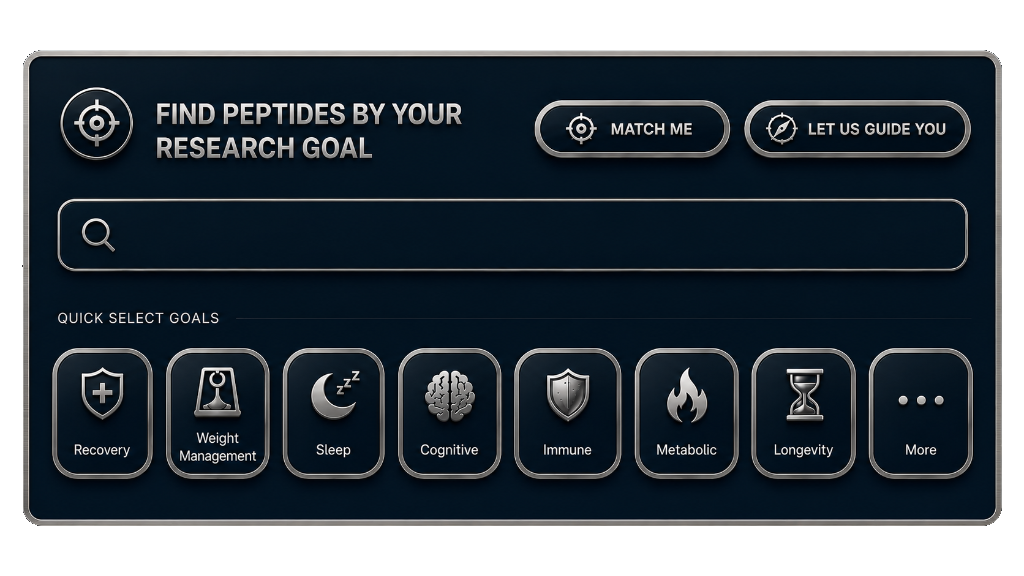
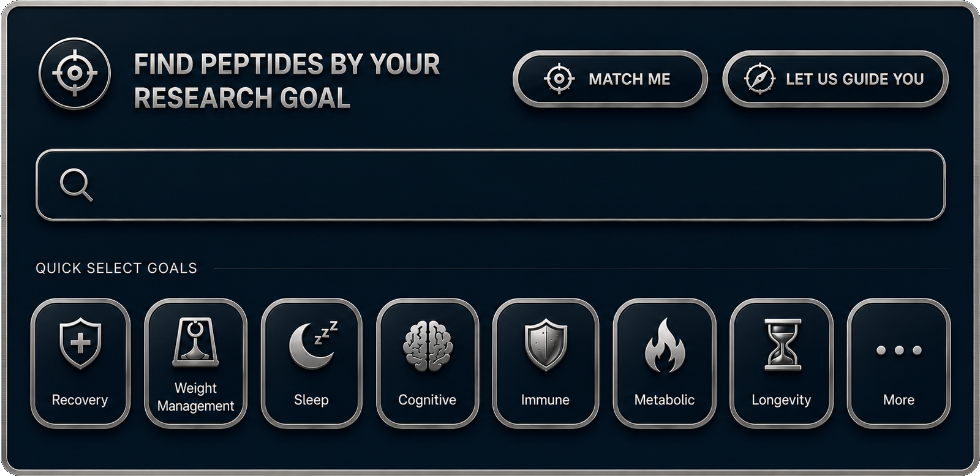
feat(research): swap basic calculator header with interactive dynamic hero layout

diff --git a/app/research/calculators/page.tsx b/app/research/calculators/page.tsx
@@ -5,77 +5,21 @@
  */
 
 import type { Metadata } from 'next';
-import Link from 'next/link';
-import GlobalSearchBar from '@/components/research/GlobalSearchBar';
 import BrowseSurfaceNav from '@/components/research/BrowseSurfaceNav';
 import CalculatorSuite from '@/components/research/CalculatorSuite';
+import DynamicCalculatorHero from '@/components/research/DynamicCalculatorHero';
 
 export const metadata: Metadata = {
   title: 'Researcher Calculators | Research Library | Pep Nation Lab',
   robots: { index: false, follow: false },
 };
 
-const ANCHORS: Array<{ href: string; label: string }> = [
-  { href: '#reconstitution', label: 'Reconstitution' },
-  { href: '#dilution', label: 'Serial Dilution' },
-  { href: '#concentration', label: 'Concentration Converter' },
-  { href: '#stability', label: 'Arrhenius Stability' },
-  { href: '#cost', label: 'Cost Per Dose' },
-  { href: '#pooling', label: 'Vial Pooling' },
-  { href: '#hplc-rt', label: 'HPLC RT Predictor' },
-  { href: '#mass-spec', label: 'Mass Spec m/z' },
-  { href: '#spps-cost', label: 'Fmoc-SPPS Cost' },
-  { href: '#solubility', label: 'Solubility Predictor' },
-  { href: '#vial-quantity', label: 'Vial Quantity Power' },
-];
+
 
 export default function CalculatorsPage() {
   return (
     <div style={{ maxWidth: 1080, margin: '0 auto', padding: '32px 16px 64px' }}>
-      <nav style={{ marginBottom: 16 }}>
-        <Link href="/research" style={{ color: '#00C4BC', fontSize: 13, textDecoration: 'none' }}>
-          Back To Research Library
-        </Link>
-      </nav>
-
-      <header style={{ marginBottom: 24 }}>
-        <h1 style={{ fontSize: 32, fontWeight: 900, color: '#FFFFFF', margin: 0 }}>
-          Researcher Calculators
-        </h1>
-        <p style={{ color: '#A8B4C0', fontSize: 16, marginTop: 8, maxWidth: 700, lineHeight: 1.6 }}>
-          Pure Lab-Prep Math, Built For The Bench. Eleven Calculators: Reconstitution, Serial Dilution,
-          Concentration Conversion, Arrhenius Stability, Cost Per Dose, Vial Pooling, HPLC Retention
-          Time, Mass Spec m/z, Fmoc-SPPS Cost, Solubility Prediction, And Vial Quantity Planning.
-          Research Use Only.
-        </p>
-      </header>
-
-      <div style={{ marginBottom: 20 }}>
-        <GlobalSearchBar compact />
-      </div>
-
-      <nav aria-label="Jump To Calculator" style={{ display: 'flex', flexWrap: 'wrap', gap: 8, marginBottom: 28 }}>
-        {ANCHORS.map((a) => (
-          <a
-            key={a.href}
-            href={a.href}
-            style={{
-              display: 'inline-flex',
-              alignItems: 'center',
-              fontSize: 12,
-              fontWeight: 700,
-              color: '#00C4BC',
-              border: '1px solid rgba(0,196,188,0.4)',
-              background: 'rgba(0,196,188,0.08)',
-              padding: '5px 12px',
-              borderRadius: 999,
-              textDecoration: 'none',
-            }}
-          >
-            {a.label}
-          </a>
-        ))}
-      </nav>
+      <DynamicCalculatorHero />
 
       <CalculatorSuite />
 

diff --git a/components/research/DynamicCalculatorHero.tsx b/components/research/DynamicCalculatorHero.tsx
@@ -1,0 +1,87 @@
+'use client';
+
+import Image from 'next/image';
+import Link from 'next/link';
+import { useState } from 'react';
+import { useRouter } from 'next/navigation';
+
+export default function DynamicCalculatorHero() {
+  const router = useRouter();
+  const [query, setQuery] = useState('');
+
+  return (
+    <div style={{ position: 'relative', width: '100%', maxWidth: 1024, aspectRatio: '1024/564', margin: '0 auto 40px' }}>
+      <Image 
+        src="/images/researcher_calculators_hero.png" 
+        alt="Researcher Calculators Dashboard" 
+        fill 
+        style={{ objectFit: 'contain' }}
+        priority
+      />
+
+      {/* Back Button */}
+      <Link 
+        href="/research"
+        aria-label="Back To Research Library"
+        style={{ position: 'absolute', top: '17%', right: '5%', width: '25%', height: '10%', zIndex: 10 }}
+      />
+
+      {/* Search Bar */}
+      <form 
+        onSubmit={(e) => {
+          e.preventDefault();
+          if (query.trim()) {
+            router.push(`/research/search?q=${encodeURIComponent(query.trim())}`);
+          }
+        }}
+        style={{ position: 'absolute', top: '30%', left: '8%', right: '8%', height: '9.5%', zIndex: 10 }}
+      >
+        <input 
+          type="search"
+          value={query}
+          onChange={(e) => setQuery(e.target.value)}
+          aria-label="Search"
+          style={{ 
+            width: '100%', 
+            height: '100%', 
+            background: 'transparent', 
+            border: 'none', 
+            color: '#fff', 
+            fontSize: '1rem', 
+            outline: 'none',
+            padding: '0 10px'
+          }}
+        />
+      </form>
+
+      {/* Grid Overlay */}
+      <div style={{ 
+        position: 'absolute', 
+        top: '45.2%', 
+        bottom: '6.1%', 
+        left: '5.8%', 
+        right: '5.9%', 
+        display: 'grid', 
+        gridTemplateColumns: 'repeat(6, 1fr)', 
+        gridTemplateRows: 'repeat(2, 1fr)', 
+        columnGap: '1.5%',
+        rowGap: '6%',
+        zIndex: 10
+      }}>
+        <Link href="#reconstitution" aria-label="Reconstitution" />
+        <Link href="#dilution" aria-label="Serial Dilution" />
+        <Link href="#concentration" aria-label="Concentration Converter" />
+        <Link href="#stability" aria-label="Arrhenius Stability" />
+        <Link href="#cost" aria-label="Cost Per Dose" />
+        <Link href="#pooling" aria-label="Vial Pooling" />
+        
+        <Link href="#hplc-rt" aria-label="HPLC RT Predictor" />
+        <Link href="#mass-spec" aria-label="Mass Spec m/z" />
+        <Link href="#spps-cost" aria-label="Fmoc-SPPS Cost" />
+        <Link href="#solubility" aria-label="Solubility Predictor" />
+        <Link href="#vial-quantity" aria-label="Vial Quantity Power" />
+        <div /> {/* Empty 6th slot */}
+      </div>
+    </div>
+  );
+}
